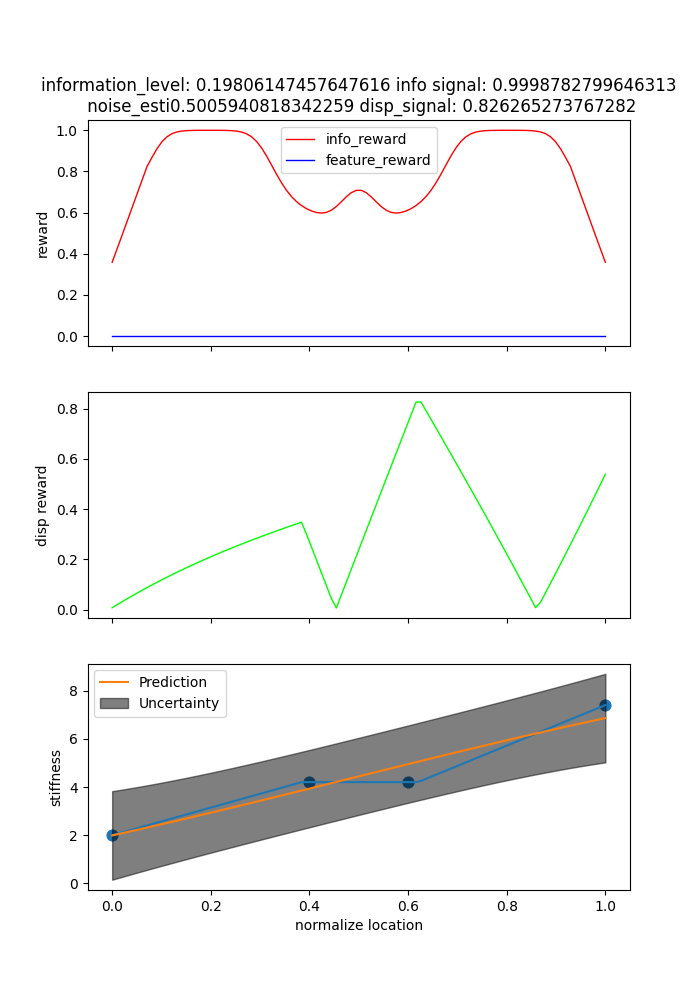
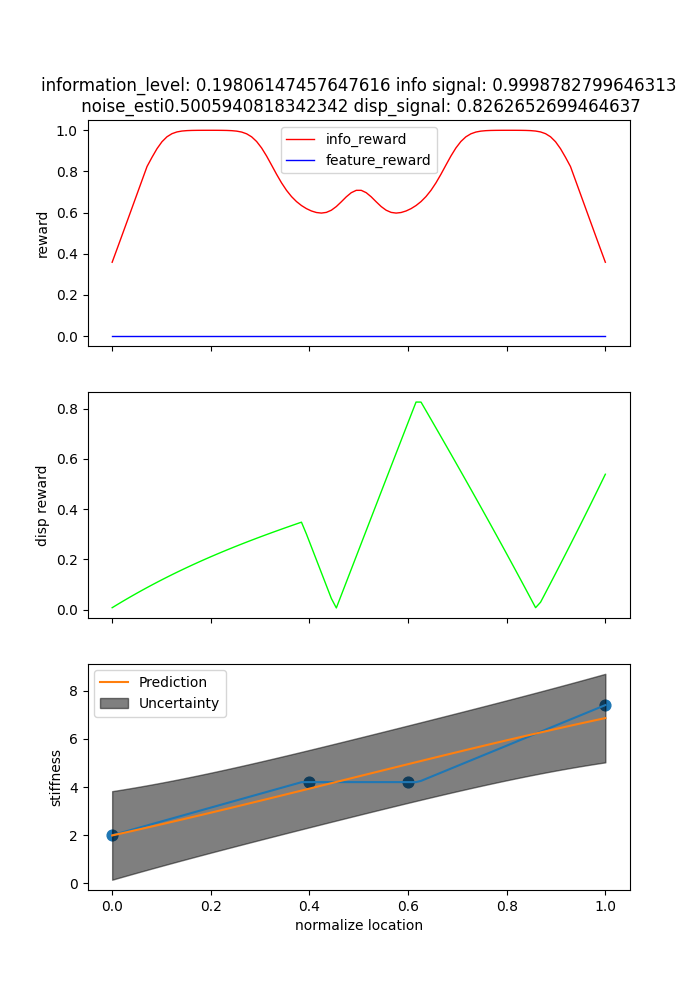
fix: solve the color mismatching & some transition logic issues

Changed region(s): [[0.12, 0.093, 0.93, 0.124]]

diff --git a/src/pages/decision.tsx b/src/pages/decision.tsx
@@ -80,7 +80,9 @@ export default function Main() {
     let acceptedRobotSuggestion;
     if (acceptOrReject !== -1 && acceptOrReject !== acceptOrRejectOptions.length - 1) {
       let robotSuggestionFinal = robotSuggestions[acceptOrReject]; 
-      const { shearValues, moistureValues } = getMeasurements(globalState, transectIdx, robotSuggestionFinal.index, robotSuggestionFinal.measurements);
+      // const { shearValues, moistureValues } = getMeasurements(globalState, transectIdx, robotSuggestionFinal.index, robotSuggestionFinal.measurements);
+      let shearValues = -1
+      let moistureValues = -1
       acceptedRobotSuggestion = {...robotSuggestionFinal, shear: shearValues, moisture: moistureValues};
     }
     let transitionAdj = (!userFreeSelection) ? transition : transition + 1;
@@ -657,6 +659,7 @@ export default function Main() {
         // add the new sample to the state
         var curStrength = document.getElementById("latestStrength")?.innerText;
         var curLocation = document.getElementById("latestLocation")?.innerText;
+        dispatch({ type: Action.SET_SHOW_ROBOT_SUGGESTIONS, value: false });
         dispatch({ type: Action.SET_USER_FEEDBACK_STATE, value: UserFeedbackState.HYPOTHESIS_CONFIDENCE });
         dispatch({ type: Action.SET_NUM_IMG_CLICKS, value: 0 });
         console.log({globalState});
@@ -685,6 +688,7 @@ export default function Main() {
           dispatch({ type: Action.SET_LOADING_ROBOT_SUGGESTIONS, value: true });
 
           let robotResults = await calculateRobotSuggestions(samples, globalState, objectives);
+          console.log(robotResults)
           const { results, spatialReward, variableReward, discrepancyReward } = robotResults;
           dispatch({ type: Action.SET_ROBOT_SUGGESTIONS, value: results });
           dispatch({ type: Action.SET_SPATIAL_REWARD, value: spatialReward });

diff --git a/src/constants.ts b/src/constants.ts
@@ -371,7 +371,7 @@ export const shearChartOption = {
           backgroundColor(context) {
             const { dataIndex, dataset } = context;
             const point = dataset.data[dataIndex];
-            return locationColors[Math.floor(point.index*22)];
+            return locationColors[Math.floor(point.index*21)];
           }
         }
       },
@@ -735,6 +735,7 @@ export enum UserFeedbackState {
 export const objectiveOptions = [
   "There are areas along the hillslope transect where data is needed", // Option 0 - spatial coverage algorithm
   "There is a discrepancy between the strength data and the strength hypothesis that needs additional evaluation", // Option 1 - hypo invalidating algorithm
+  // "I have a another objective",
   // "The strength data seems to be supporting the strength hypothesis so far but additional evaluation is needed", // Option 2 - hypo validating algorithm
 ]
 

diff --git a/src/components/ClickableImage.tsx b/src/components/ClickableImage.tsx
@@ -219,7 +219,7 @@ export default function ClickableImage({
         }
 
         const { index, type, normOffsetX, normOffsetY, isHovered } = sample;
-
+        console.log('index', index)
         return (
           <PositionIndicator
             key={sampleIdx}
@@ -233,7 +233,7 @@ export default function ClickableImage({
             rowIndex={sampleIdx}
             isHovered={isHovered}
             type={type}
-            locationIndex={Math.floor(index*22)}
+            locationIndex={Math.floor(index*21)}
             robot={false}
           />
         );
